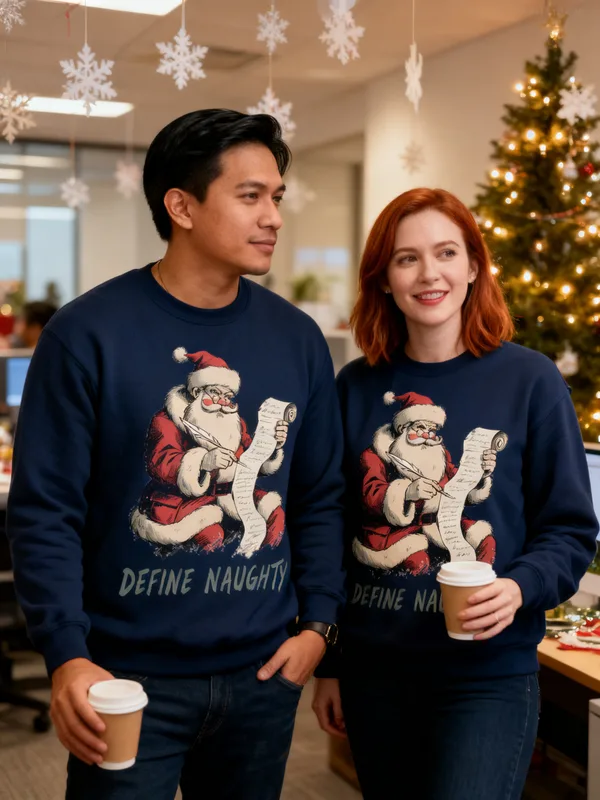
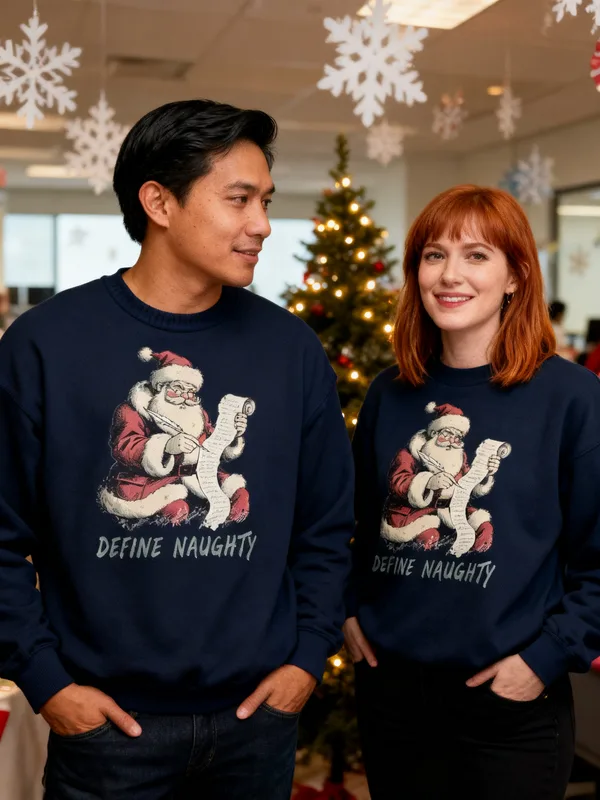
[A] review 147 150 151 covers (R6.9 redo from product mockups)

diff --git a/src/data/covers.ts b/src/data/covers.ts
@@ -177,12 +177,12 @@ export const covers: Record<string, { src: string; alt: string }> = {
   'womens-christmas-nutcracker-bow-hoodie': { src: '/covers/womens-christmas-nutcracker-bow-hoodie.webp', alt: 'Woman with dark waves and statement earrings at a night holiday market with a nutcracker display behind her, wearing the navy Nutcracker Bow hoodie' },
   'unisex-anime-kaiju-naps-oversized-hoodie': { src: '/covers/unisex-anime-kaiju-naps-oversized-hoodie.webp', alt: 'Man and woman on a city rooftop at dusk, side by side in matching beige oversized hoodies with the Destroyer of Cities, Lover of Naps kaiju print' },
   'unisex-anime-mecha-mondays-oversized-hoodie': { src: '/covers/unisex-anime-mecha-mondays-oversized-hoodie.webp', alt: 'Man and woman in matching beige oversized hoodies outside a neon-lit ramen shop at night, holding takeaway coffee, wearing the Mecha Mondays hoodie' },
-  'unisex-christmas-define-naughty-crewneck-sweatshirt': { src: '/covers/unisex-christmas-define-naughty-crewneck-sweatshirt.webp', alt: 'Man and woman standing together at an office holiday party with paper snowflakes and a lit tree, holding coffee cups and wearing the navy Define Naughty crewneck sweatshirt' },
+  'unisex-christmas-define-naughty-crewneck-sweatshirt': { src: '/covers/unisex-christmas-define-naughty-crewneck-sweatshirt.webp', alt: 'Man and woman standing together at an office holiday party with paper snowflakes and a lit tree, hands in their pockets, wearing the navy Define Naughty crewneck sweatshirt' },
   'womens-cropped-matcha-made-in-heaven-cropped-hoodie': { src: '/covers/womens-cropped-matcha-made-in-heaven-cropped-hoodie.webp', alt: 'Woman at a bright cafe counter holding an iced matcha, wearing the Matcha Made in Heaven cropped hoodie in Storm' },
   'mens-christmas-light-show-manager-graphic-tee': { src: '/covers/mens-christmas-light-show-manager-graphic-tee.webp', alt: 'Man with sandy-brown hair and wire-rim glasses in his front yard at dusk under string lights with a ladder behind him, holding a coffee mug and wearing the Light Show Manager (Unpaid) Christmas tee' },
   'womens-cropped-espresso-yourself-cropped-hoodie': { src: '/covers/womens-cropped-espresso-yourself-cropped-hoodie.webp', alt: 'Woman with curly honey-brown hair in a claw clip at a moody coffee bar, wearing the Espresso Yourself cropped hoodie in Storm' },
   'unisex-christian-amazing-grace-heavyweight-hoodie': { src: '/covers/unisex-christian-amazing-grace-heavyweight-hoodie.webp', alt: 'Man and woman in matching navy hoodies outside a small white country church at golden hour, holding coffee, wearing the Amazing Grace cross hoodie' },
-  'unisex-christmas-light-show-manager-crewneck-sweatshirt': { src: '/covers/unisex-christmas-light-show-manager-crewneck-sweatshirt.webp', alt: 'Man and woman standing together on a snowy porch at dusk beside a railing strung with Christmas lights, he holds a coffee mug, both wearing the white Light Show Manager (Unpaid) crewneck sweatshirt' },
+  'unisex-christmas-light-show-manager-crewneck-sweatshirt': { src: '/covers/unisex-christmas-light-show-manager-crewneck-sweatshirt.webp', alt: 'Man and woman standing together on a snowy porch at dusk beside a railing strung with Christmas lights, hands in their pockets, both wearing the white Light Show Manager (Unpaid) crewneck sweatshirt' },
   'mens-gym-plate-club-heavyweight-hoodie': { src: '/covers/mens-gym-plate-club-heavyweight-hoodie.webp', alt: 'Man in a gritty warehouse gym with a loaded barbell behind him, wearing the Clean Plate Club heavyweight hoodie in Storm Blue' },
   'mens-christmas-technically-a-sweater-graphic-tee': { src: '/covers/mens-christmas-technically-a-sweater-graphic-tee.webp', alt: 'Man laughing at an office holiday party with paper snowflakes and a lit tree, colleagues in ugly Christmas sweaters behind him, holding a coffee cup and wearing the Technically a Sweater tee' },
   'mens-gym-leg-day-survivor-hoodie': { src: '/covers/mens-gym-leg-day-survivor-hoodie.webp', alt: 'Man with red hair and freckles in a garage gym by a squat rack, hands in the pocket of his sand pullover hoodie with the Leg Day Survivor print' },

diff --git a/docs/pipeline/151-christmas-light-show-manager-crewneck.md b/docs/pipeline/151-christmas-light-show-manager-crewneck.md
@@ -1,4 +1,4 @@
-status: REDO
+status: REVIEW
 lane: A
 type: twin
 id: 151
@@ -22,3 +22,4 @@ handle: unisex-christmas-light-show-manager-crewneck-sweatshirt
   1. R6.8: lettering garbled on the cover: his print reads "LIGHT SHOIW SHOW", hers drops MANAGER, and the ladder man has turned into a blob of bulbs. Use your R6.9 extra attempt: generate from the product's own White (or Sand) Printful front mockup as the `--design` reference, 3 images per call, keep the one where every word reads LIGHT SHOW MANAGER (UNPAID) and the bearded man on the ladder is visible.
   2. R6.9: no mug on this one: his coffee sits at the bottom edge of the print. Hands empty (pockets or at the sides) or holding the light strand off to the side, nothing over any part of the print.
   If the extra attempt still garbles, keep the best and log it; I'll decide.
+- 2026-10-16 21:51 UTC builder [A]: cover only (R6.9 redo): generated from the White crewneck front mockup, 3 images per call; kept #2: LIGHT SHOW MANAGER reads on both shirts and the ladder man is visible, hands in pockets, no mugs. The tiny (UNPAID) line is still soft, director may look. → REVIEW.

diff --git a/docs/pipeline/150-christmas-light-show-manager.md b/docs/pipeline/150-christmas-light-show-manager.md
@@ -1,4 +1,4 @@
-status: REDO
+status: REVIEW
 lane: A
 type: new
 id: 150
@@ -25,3 +25,4 @@ handle: mens-christmas-light-show-manager-graphic-tee
 - 2026-10-16 19:45 UTC director: REDO (product stays DRAFT). Notes:
   1. R6.8 (cover redraws the print): the cover splits the words into LIGHT SHOW / a new MANAGER banner badge / (UNPAID) and stacks the bulbs differently: a redrawn print with a badge (R4.1) that isn't on the shirt. One more attempt under R6.9: generate with the White or Natural tee mockup as the `--design` reference, read LIGHT SHOW MANAGER (UNPAID) on the arc exactly as the art, mug held at the side.
   2. Product, copy, sync and mockups are fine: only the cover changes.
+- 2026-10-16 21:51 UTC builder [A]: cover only (R6.9 redo): generated from the White tee front mockup, 3 images per call; kept #1: LIGHT SHOW MANAGER (UNPAID) reads as on the art with the bearded man on the ladder visible, mug held low at his side below the print. → REVIEW.

diff --git a/docs/pipeline/147-christmas-define-naughty-crewneck.md b/docs/pipeline/147-christmas-define-naughty-crewneck.md
@@ -1,4 +1,4 @@
-status: REDO
+status: REVIEW
 lane: A
 type: twin
 id: 147
@@ -21,3 +21,4 @@ handle: unisex-christmas-define-naughty-crewneck-sweatshirt
 - 2026-10-16 18:40 UTC director: REDO (product stays DRAFT). Notes:
   1. R6.5/R6.7 (cover): the woman's coffee cup sits over DEFINE NAUGHTY on her sweatshirt, so the word line reads "DEFINE NAU". Both attempts had a cup on the print. One more attempt under R6.9 (new line): hands empty (in pockets or at the sides), no drinks, generated with the Navy crewneck mockup as the --design reference. Keep the office-party scene and both registry rows.
   2. Product, copy, sync and mockups are fine: only the cover changes.
+- 2026-10-16 21:51 UTC builder [A]: cover only (R6.9 redo): generated from the product's Navy front mockup, 3 images per call; kept #3: both hands in pockets, no cups, DEFINE NAUGHTY fully readable on both sweatshirts, same pair and office scene. → REVIEW.
